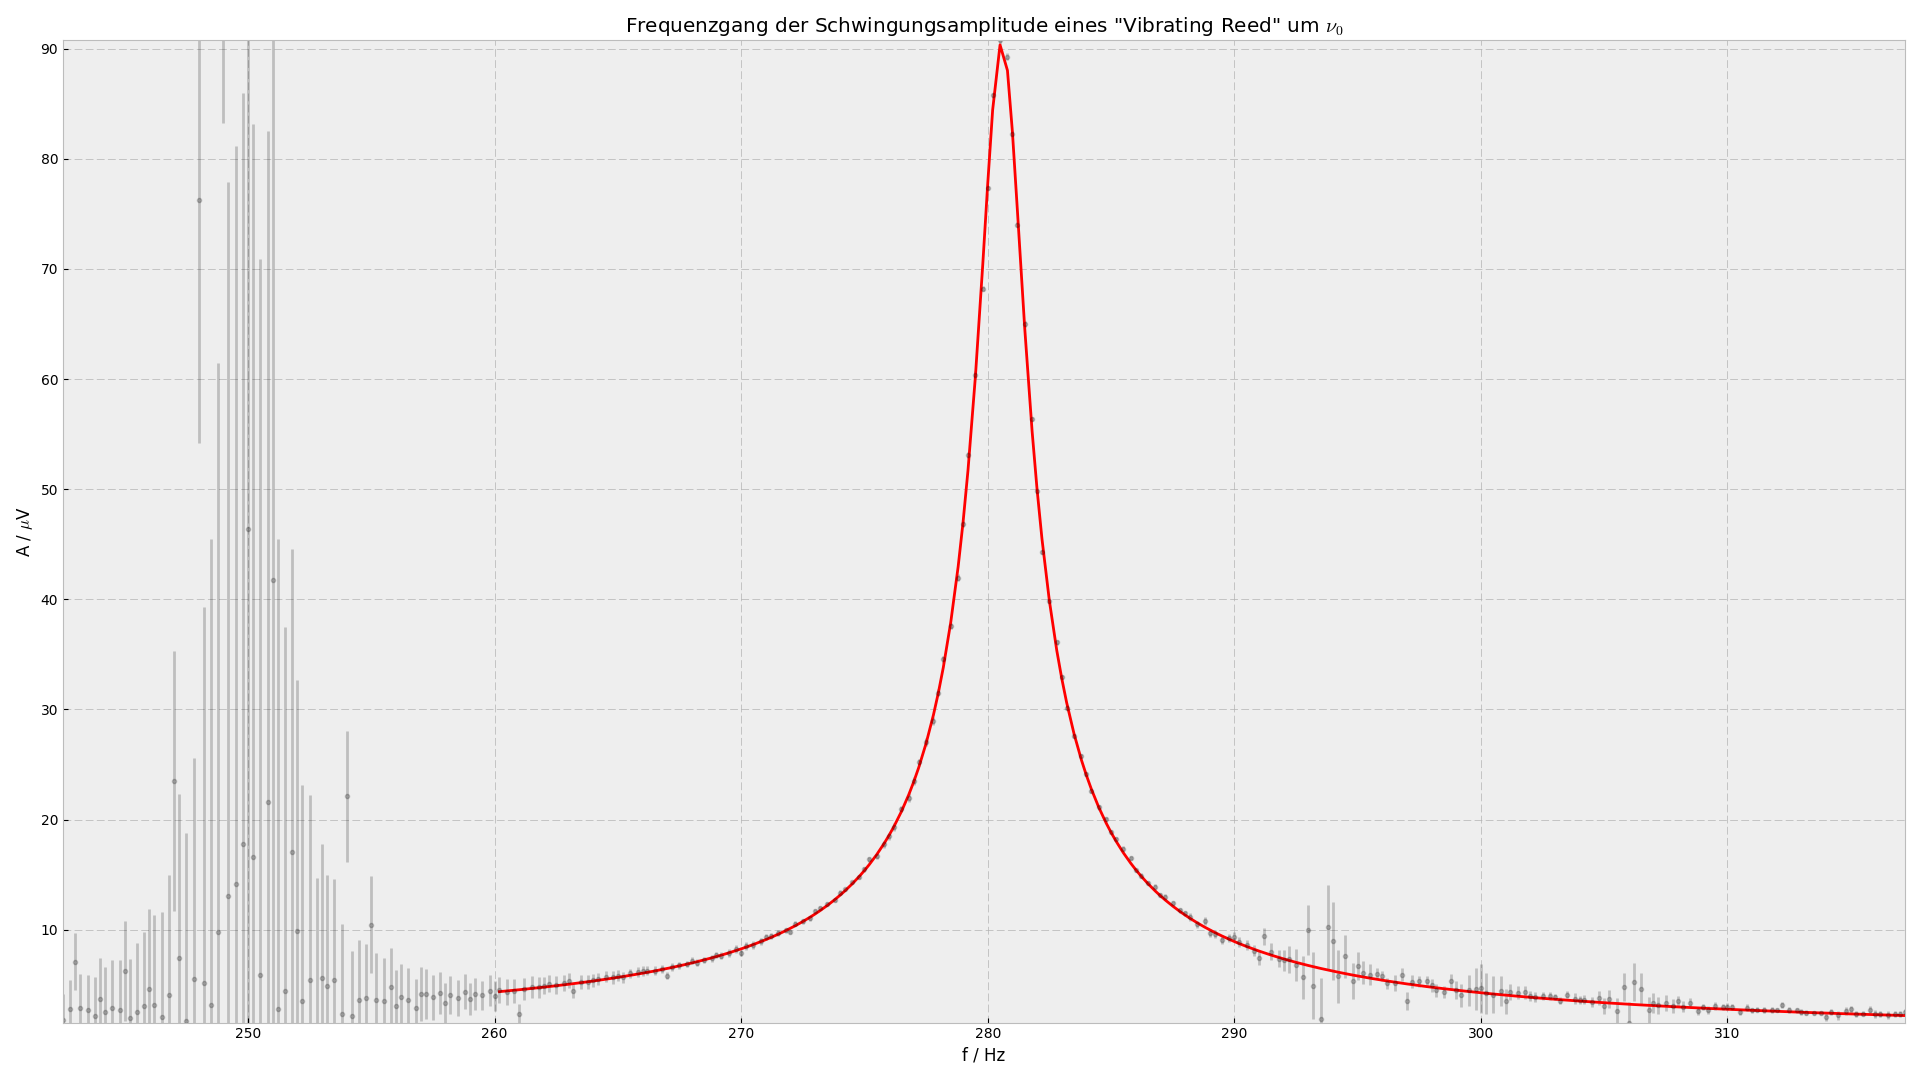
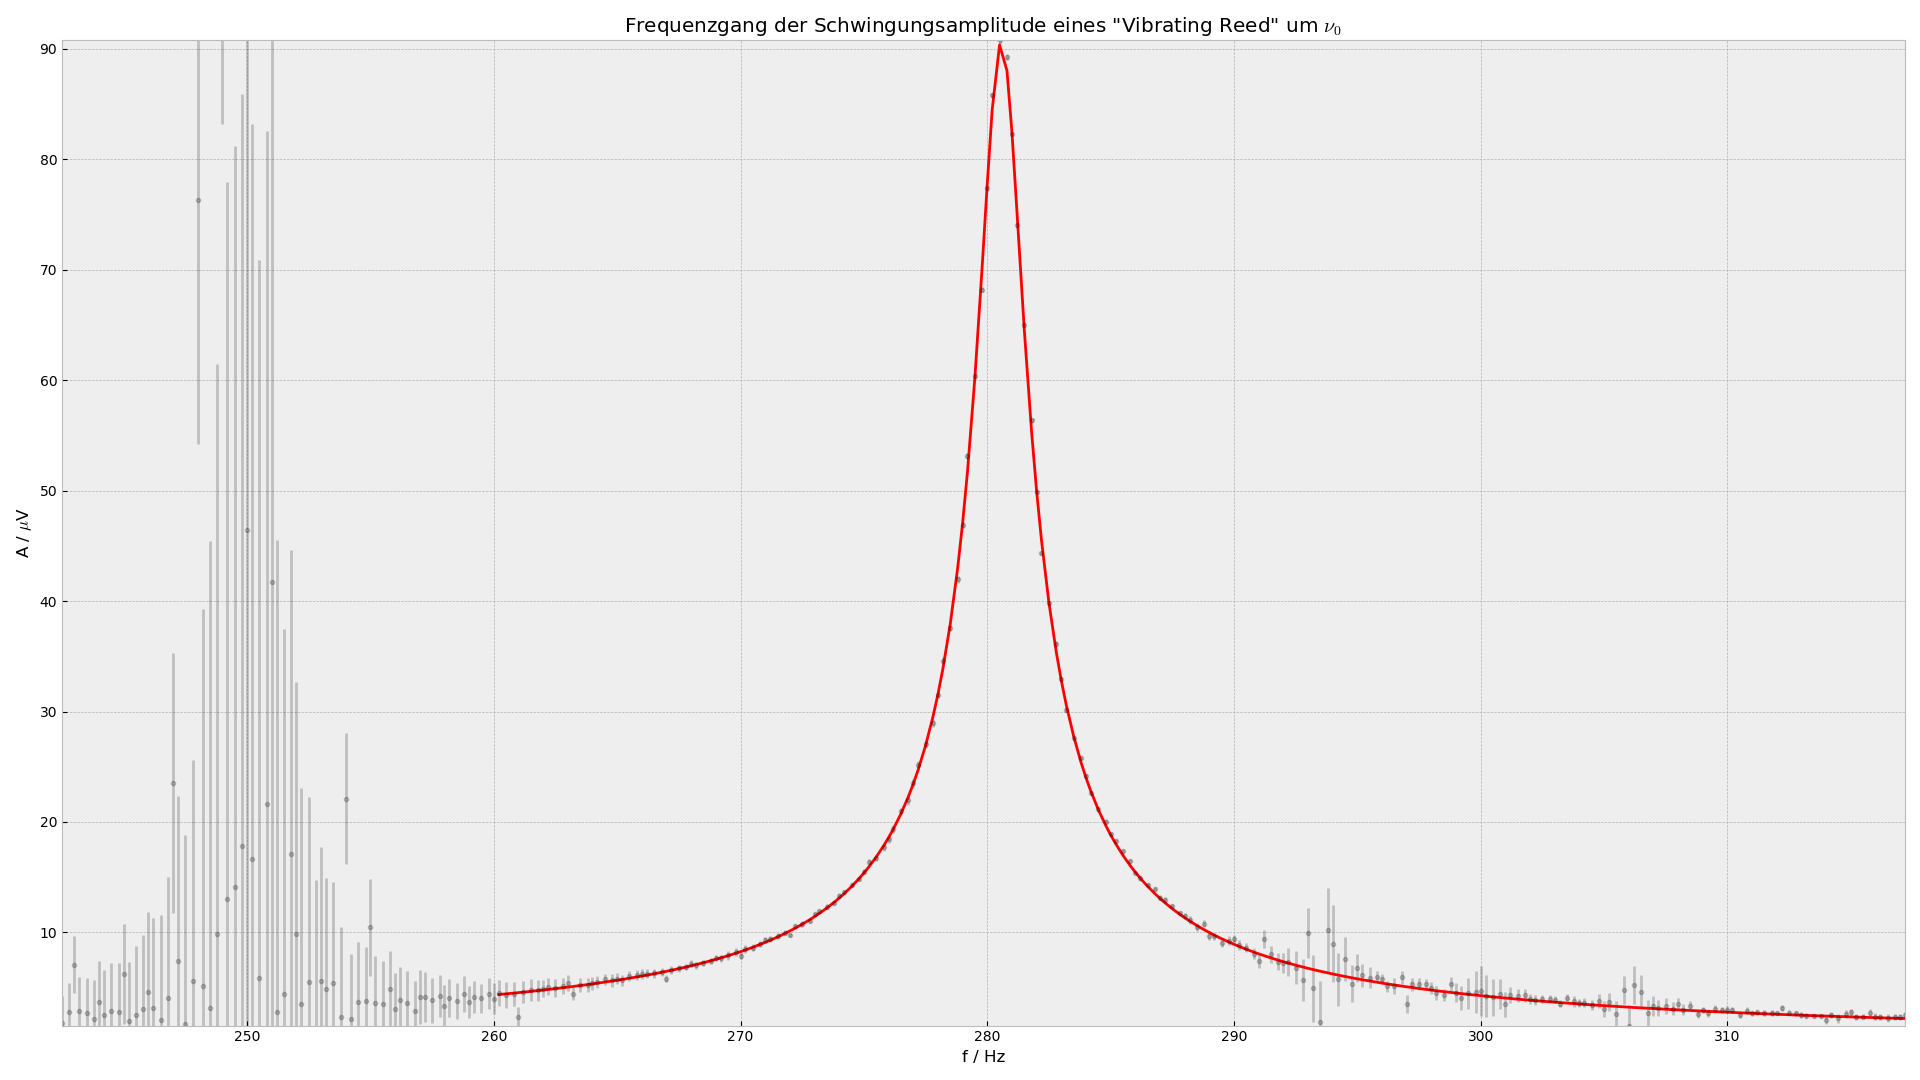
add residual stuff

diff --git a/F77 - Computer und Datenverarbeitung/F77.py b/F77 - Computer und Datenverarbeitung/F77.py
@@ -1,5 +1,8 @@
+#! /usr/bin/python3
+# coding=utf8
+
 # # F77 - Computer und Datenverarbeitung
-# 
+#
 # ## Versuchsteil A
 
 # setup
@@ -18,7 +21,7 @@ str_f = 'f / Hz'
 str_A = 'A / V'
 str_dA = 'dA / V'
 
-def lorentz(omega, gamma, f_0, omega_0):    
+def lorentz(omega, gamma, f_0, omega_0):
     return f_0 / np.sqrt((omega_0**2-omega**2)**2+gamma**2*omega**2)
 
 
@@ -55,13 +58,13 @@ for it, e in enumerate([df_a1, df_a2, df_a3]):
         x = e[str_f]
         y = e[str_A]
         dy = e[str_dA]
-    
+
     fitdata = lmod.fit(
-        y, 
-        omega=x, 
-        gamma=2, 
-        f_0=np.max(y), 
-        omega_0=(np.max(x)+np.min(x))/2, 
+        y,
+        omega=x,
+        gamma=2,
+        f_0=np.max(y),
+        omega_0=(np.max(x)+np.min(x))/2,
         weights=1/dy
     )
 
@@ -74,9 +77,10 @@ for it, e in enumerate([df_a1, df_a2, df_a3]):
     otl.add("\chi^2_{red," + str(it+1) + "}", fitdata.redchi, aftercomma=3)
 
     otl.save('a_' + str(it+1) + '.tex')
-    
+
     otl.empty()
 
+    # plot gen 1
     plt.figure(figsize=(19.2,10.8))
     plt.errorbar(
         e[str_f],
@@ -99,14 +103,14 @@ for it, e in enumerate([df_a1, df_a2, df_a3]):
     plt.tight_layout()
     plt.savefig('a_1' + str(it + 1) + '.png')
 
-
+    # plot gen 2
     f, axarr = plt.subplots(2,1, sharex='col', figsize=(19.2,10.8))
     axarr[0].errorbar(
-        e[str_f], 
-        e[str_A]*1e6, 
-        yerr=e[str_dA]*1e6, 
-        fmt='.', 
-        c='#00000033', 
+        e[str_f],
+        e[str_A]*1e6,
+        yerr=e[str_dA]*1e6,
+        fmt='.',
+        c='#00000033',
         label='Messdaten'
     )
     axarr[0].plot(x, fitdata.best_fit*1e6, 'r-')
@@ -117,7 +121,7 @@ for it, e in enumerate([df_a1, df_a2, df_a3]):
         fmt='.',
         c='#00000033'
     )
-    
+
     axarr[0].set_xlim((np.min(e[str_f]), np.max(e[str_f])))
     axarr[0].set_ylim((np.min(y*1e6), np.max(y*1e6)))
     axarr[1].set_ylim((-1,3))
@@ -127,7 +131,7 @@ for it, e in enumerate([df_a1, df_a2, df_a3]):
 
     axarr[0].set_ylabel('A / $\mu$V')
     axarr[1].set_ylabel('$\phi$')
-    
+
     axarr[0].set_title(r'Frequenzgang der Schwingungsamplitude eines "Vibrating Reed" um $\nu_'
               + str(it) + '$')
     axarr[1].set_title(r'Frequenzgang der Schwingungsphase')
@@ -141,6 +145,58 @@ for it, e in enumerate([df_a1, df_a2, df_a3]):
     plt.tight_layout(rect=(0,0.05,1,1))
     plt.savefig('a_2' + str(it+1) + '.png')
 
+    # plot gen 3
+    f, axarr = plt.subplots(2,1, sharex='col', figsize=(19.2,10.8))
+    axarr[0].errorbar(
+        e[str_f],
+        e[str_A]*1e6,
+        yerr=e[str_dA]*1e6,
+        fmt='.',
+        c='#00000033',
+        label='Messdaten'
+    )
+    axarr[0].plot(x, fitdata.best_fit*1e6, 'r-')
+    axarr[1].errorbar(
+        e[str_f],
+        (e[str_A]-fitdata.best_fit)/e[str_dA],
+        fmt='.',
+        c='#00000033'
+    )
+    sys_res = np.mean((e[str_A]-fitdata.best_fit)/e[str_dA])
+    axarr[1].axhline(sys_res)
+    axarr[1].annotate(
+        '${:.2e}$'.format(sys_res),
+        xy=(np.min(e[str_f])+1 ,sys_res),
+        xycoords='data',
+        xytext=(0, 0),
+        textcoords='offset points',
+        fontsize=14,
+        bbox=dict(boxstyle="round",
+        fc="1")
+    )
+
+    axarr[0].set_xlim((np.min(e[str_f]), np.max(e[str_f])))
+    axarr[0].set_ylim((np.min(y*1e6), np.max(y*1e6)))
+    axarr[0].set_ylabel('A / $\mu$V')
+    axarr[1].set_ylabel('residual')
+
+    axarr[0].set_title(r'Frequenzgang der Schwingungsamplitude eines "Vibrating Reed" um $\nu_'
+              + str(it) + '$')
+    axarr[1].set_title(r'Residuen')
+
+    f.subplots_adjust(wspace=.01)
+    f.text(0.5, 0.04, 'f / Hz', ha='center')
+
+    #plt.xlabel(str_f)
+
+    #plt.ylabel('A / $\mu$V')
+    plt.tight_layout(rect=(0,0.05,1,1))
+    plt.savefig('a_3' + str(it+1) + '.png')
+
+    d_stat = np.mean(e[str_dA])
+    print(x.shape[0])
+    s_sys = 1/(fitdata.chisqr/fitdata.redchi) * np.sum(((e[str_A]-fitdata.best_fit)*1e6)**2) - d_stat**2
+    print(np.sqrt(s_sys), d_stat)
 
 ## Versuchsteil B
 
